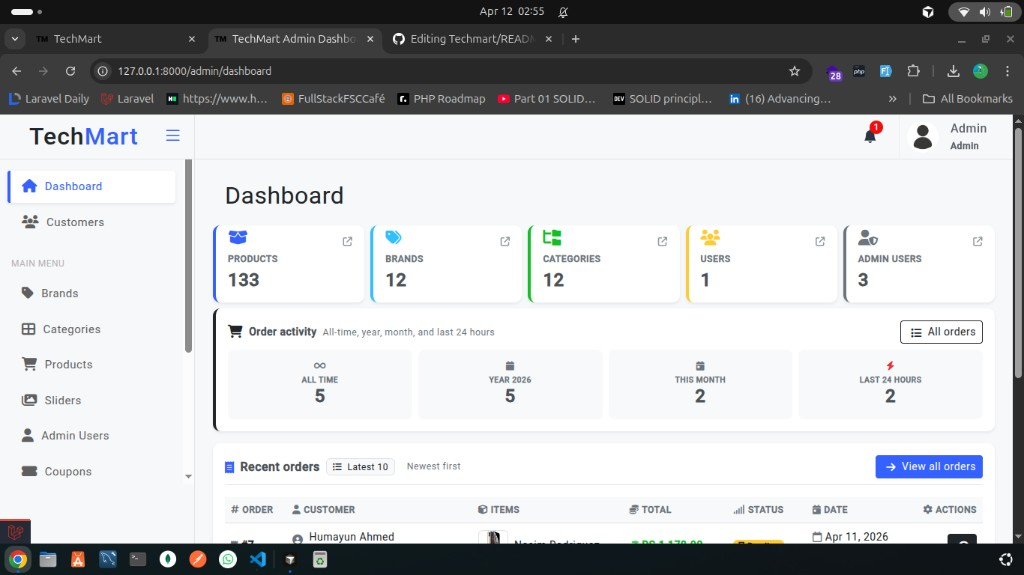
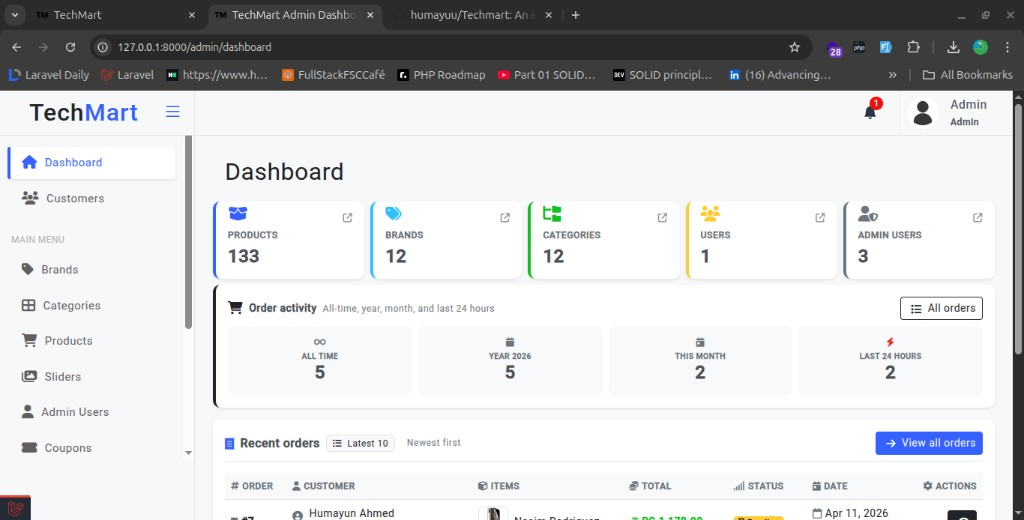
Add README screenshots

diff --git a/README.md b/README.md
@@ -242,9 +242,3 @@ Keep this running in production (supervisor, systemd, or your host’s queue too
 ### 4. Resend verification email
 
 Logged-in users who have not verified can use the “resend verification email” action on the verification page (route `verification.send`, throttled).
-
----
-
-## License
-
-This project is licensed under the [MIT license](https://opensource.org/licenses/MIT).
